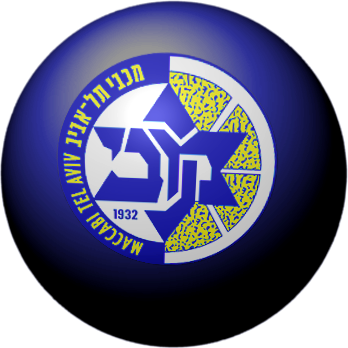
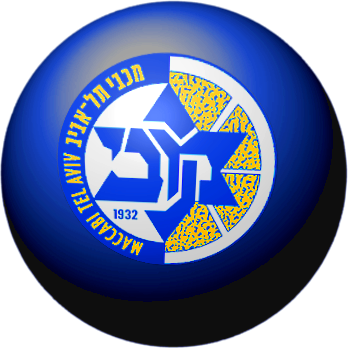
colors

diff --git a/js/visher.js b/js/visher.js
@@ -2,23 +2,23 @@ var visherMain = function(game){
 	resetVisher = true;
 	GO_NUM = 6.5;
 	
-	HU_COLOR = '#0000FF';
-	HA_COLOR = '#FFFF00';
+	HU_COLOR = 'visherBlue';
+	HA_COLOR = 'visherYellow';
+	
+	anImage = null;
 };
 
 visherMain.prototype = {
     create: function(){ 
     	game.stage.backgroundColor = '#ff4502';
 
-    	bg = game.add.image(0, 0, 'bg');
-    	bg.alpha = 0.6;
-   	
         wipers = game.add.group();
 		wipers.enableBody = true;
 		wipers.physicsBodyType = Phaser.Physics.ARCADE;
 		
 		wiper = wipers.create(0, 0, 'wiper');
 		
+		anImage = game.add.image(0, 0, HU_COLOR);
 
         wiper.y = HEIGHT / 2 + wiper.height / 4;
         wiper.x = (WIDTH / 2 - wiper.width / 2)  + 500;
@@ -27,7 +27,7 @@ visherMain.prototype = {
         
         wiper.body.collideWorldBounds = true;
     	
-        angleText = game.add.text(250, 50, "Vish it!", {font: '32px', fill: 'white'});
+        angleText = game.add.text(600, 50, "Vish it!", {font: '32px', fill: 'white'});
 
     	try{navigator.accelerometer.watchAcceleration(readVisherAccel, onError, { frequency: 1 });} catch(e){}
     },
@@ -40,12 +40,12 @@ visherMain.prototype = {
 	    	}
 	    	
 	    	if (resetVisher){    	
-		    	if (wiper.angle < -25 && game.stage.backgroundColor != 255){
+		    	if (wiper.angle < -25 && anImage.key != HU_COLOR){
 					haSfx.play();
 					flashVisher(HU_COLOR);	
 	    		}
 		    	
-		    	else if (wiper.angle > 25 && game.stage.backgroundColor != 16776960){    		
+		    	else if (wiper.angle > 25 && anImage.key != HA_COLOR){    		
     				huSfx.play();
 					flashVisher(HA_COLOR);
 				}	
@@ -59,10 +59,12 @@ function readVisherAccel(acceleration){
 	angleText.text = roundIt(acceleration.x);
 }
 
-function flashVisher(_color){
+function flashVisher(_image){
 	window.plugins.flashlight.switchOn();
 	setTimeout(function(){navigator.vibrate(35);}, 20);	
-	game.stage.backgroundColor = _color;
+	
+	anImage.destroy();
+	anImage = game.add.image(0, 0, _image);
 	
 	resetVisher = false;
 	

diff --git a/js/preloader.js b/js/preloader.js
@@ -17,6 +17,9 @@ preloader.prototype = {
         game.load.image('tromboneImg', "assets/images/trombone.png");
         
         game.load.image('wiper', "assets/images/wiper.png");
+       
+        game.load.image('visherBlue', "assets/images/visherBlue.png");
+        game.load.image('visherYellow', "assets/images/visherYellow.png");
         
         game.load.image('plus', "assets/images/plus.png");
         game.load.image('minus', "assets/images/minus.png");
